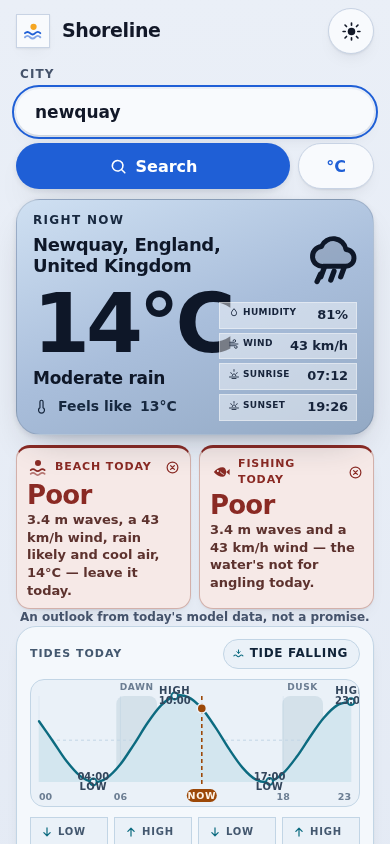
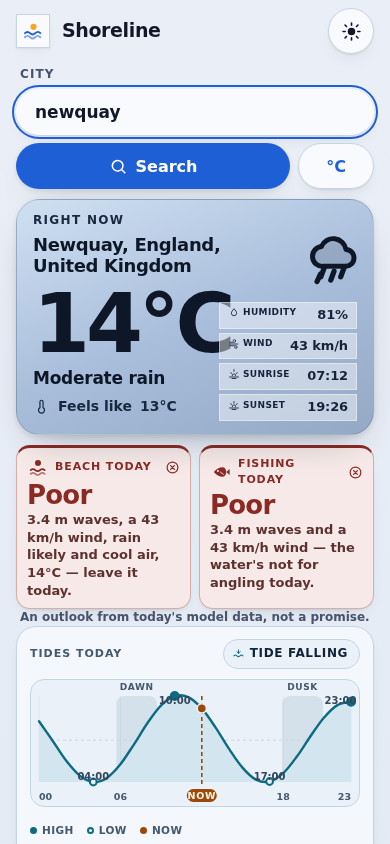
Tide chart: one word per turn, so "when" stays readable
Sydney's arrangement put "dusk" on top of a "High" and a "Low" on top of the
"now" pill - fifteen words in a 366x128 box, where the dawn/dusk band, the
hour ruler and the now pill already live. Live Sydney does this today, and any
place whose tide turns land near low light will.

The chart now prints the time only. A filled disc is a high, a hollow ring a
low, and their time sits on the outside of the curve; a small legend and the
tiles below both say high and low in words, so the shape is never the only cue.
Labels are placed against a map of the space already owned (plot band, ruler,
now pill, dawn/dusk strip) with a fallback to the other side of the curve, and
dropped only as a last resort.

audit/chart-collide.js sweeps the tide phase across the day - a fixed fixture
only sometimes produces the collision - and asserts no two words overlap, no
label leaves the box, and every turn keeps its time on the chart.

Along the way it exposed a latent contrast bug: --tide-kind is 3.96:1 on the
light water panel. It had gone unnoticed because it only ever painted SVG
shapes, which the checks do not sample; the new legend made it real text and
the coastal contrast check failed immediately. The legend, the dawn/dusk words
and the hour ruler now use --water-muted (6.85:1 light, 9.02:1 dark).

diff --git a/water.js b/water.js
@@ -356,6 +356,50 @@
      hour gridlines, mean sea level, and now. */
   const CHART_MIN_W = 260;
   const CHART_MIN_H = 124;
+  /* Font sizes as CSS paints them, so label boxes can be measured before the SVG is
+     built — the viewBox is 1:1 with the box, so these are px on screen too. */
+  const TIME_PX = 10;
+  const KIND_PX = 8.5;
+  const BAND_BASELINE = 10;
+
+  const boxOf = (text, cx, baseline, px) => {
+    const w = String(text).length * px * 0.62;
+    return { x1: cx - w / 2, x2: cx + w / 2, y1: baseline - px * 0.82, y2: baseline + px * 0.22 };
+  };
+  const hits = (b, boxes) => boxes.some((o) => b.x1 < o.x2 && o.x1 < b.x2 && b.y1 < o.y2 && o.y1 < b.y2);
+
+  /* One word per turn, not two. Four turns a day means four times, and adding
+     "High"/"Low" beside every one pushes fifteen words into a 366x128 box, where
+     they land on the dawn and dusk labels, on the "now" pill and on each other.
+     High and low are carried instead by a filled disc and a hollow ring, and by
+     which side of the curve their time sits on; the tiles under the chart spell
+     each turn out in full. A time is nudged to the other side of the curve, then
+     offset, and only dropped as a last resort — a missing label beats a pile. */
+  function labelTurns(m, x, y, cl, top, bottom, W, occupied) {
+    const placed = occupied.slice();
+    const out = [];
+    for (const t of m.turns) {
+      const mx = x(t.hour);
+      const my = y(t.heightM);
+      const high = t.kind === "High";
+      const w = String(t.time).length * TIME_PX * 0.66;
+      const cx = cl(mx, 2 + w / 2, W - 2 - w / 2);
+      const boxAt = (up, dy) => boxOf(t.time, cx, cl(my + (up ? -10 : 16) + dy, top + 8, bottom - 2), TIME_PX);
+      const tries = [boxAt(high, 0), boxAt(!high, 0), boxAt(high, -10), boxAt(!high, 10), boxAt(high, 10), boxAt(!high, -10)];
+      const chosen = tries.find((b) => !hits(b, placed));
+      if (chosen) placed.push(chosen);
+      const label = chosen
+        ? `<text x="${cx.toFixed(1)}" y="${(chosen.y2 - TIME_PX * 0.22).toFixed(1)}" text-anchor="middle">${t.time}</text>`
+        : "";
+      out.push(
+        `<g class="tc-turn tc-turn--${t.kind.toLowerCase()}">` +
+          `<circle cx="${mx.toFixed(1)}" cy="${my.toFixed(1)}" r="${high ? "4" : "3.4"}"/>` +
+          label +
+          `</g>`,
+      );
+    }
+    return out.join("");
+  }
 
   /* Catmull-Rom -> cubic bezier: hourly tide values are smooth, and a polyline reads
      as a zigzag at 24 points across 300px. */
@@ -434,26 +478,33 @@
       const to = x(cl((centreMin + LOW_LIGHT_MIN) / 60, 0, 23));
       return (
         `<rect class="tc-band" x="${from.toFixed(1)}" y="${top}" width="${(to - from).toFixed(1)}" height="${bottom - top}" rx="8"/>` +
-        `<text class="tc-bandlabel" x="${((from + to) / 2).toFixed(1)}" y="10" text-anchor="middle">${label}</text>`
+        `<text class="tc-bandlabel" x="${((from + to) / 2).toFixed(1)}" y="${BAND_BASELINE}" text-anchor="middle">${label}</text>`
       );
     };
+    /* The ruler along the bottom (hour ticks and the "now" pill) and the strip above
+       the plot (dawn and dusk) are already owned; a turn's labels must not walk into
+       either, so their boxes are registered here before labelling starts. */
+    const HOUR_PX = 9.5;
+    const pillW = 30;
+    const nowX = m.nowHour === null ? null : x(m.nowHour);
+    const nowY = m.nowHour === null || m.series[m.nowHour] === null ? null : y(m.series[m.nowHour]);
+    const nowPillX = nowX === null ? null : cl(nowX - pillW / 2, 2, W - pillW - 2);
+    const nowTextX = nowX === null ? null : cl(nowX, 2 + pillW / 2, W - pillW / 2 - 2);
 
-    const marks = m.turns
-      .map((t) => {
-        const mx = x(t.hour);
-        const my = y(t.heightM);
-        const high = t.kind === "High";
-        const ly = cl(high ? my - 9 : my + 15, top + 8, bottom - 2);
-        const ky = cl(high ? ly - 10 : ly + 10, 10, H - 4);
-        return (
-          `<g class="tc-turn tc-turn--${t.kind.toLowerCase()}">` +
-          `<circle cx="${mx.toFixed(1)}" cy="${my.toFixed(1)}" r="3.4"/>` +
-          `<text x="${mx.toFixed(1)}" y="${ly.toFixed(1)}" text-anchor="middle">${t.time}</text>` +
-          `<text class="tc-turnkind" x="${mx.toFixed(1)}" y="${ky.toFixed(1)}" text-anchor="middle">${t.kind}</text>` +
-          `</g>`
-        );
-      })
-      .join("");
+    const occupied = [
+      { x1: 0, x2: W, y1: 0, y2: top - 1 },
+      { x1: 0, x2: W, y1: bottom + 1, y2: H },
+      ...(nowX === null ? [] : [{ x1: nowPillX, x2: nowPillX + pillW, y1: H - 17, y2: H - 4 }]),
+      ...[0, 6, 12, 18, 23].map((h) => {
+        const anchor = h === 0 ? "start" : h === 23 ? "end" : "middle";
+        const cx = x(h);
+        const w = HOUR_PX * 0.66 * 2;
+        const left = anchor === "start" ? cx : anchor === "end" ? cx - w : cx - w / 2;
+        return { x1: left, x2: left + w, y1: H - 6 - HOUR_PX * 0.82, y2: H - 6 + HOUR_PX * 0.22 };
+      }),
+    ];
+
+    const marks = labelTurns(m, x, y, cl, top, bottom, W, occupied);
 
     const hours = [0, 6, 12, 18, 23]
       .map(
@@ -462,17 +513,14 @@
       )
       .join("");
 
-    const nowX = m.nowHour === null ? null : x(m.nowHour);
-    const nowY = m.nowHour === null || m.series[m.nowHour] === null ? null : y(m.series[m.nowHour]);
-    const pillW = 30;
     const now =
       nowX === null
         ? ""
         : `<g class="tc-now">` +
           `<line x1="${nowX.toFixed(1)}" y1="${top}" x2="${nowX.toFixed(1)}" y2="${bottom + 2}"/>` +
           (nowY === null ? "" : `<circle cx="${nowX.toFixed(1)}" cy="${nowY.toFixed(1)}" r="4.6"/>`) +
-          `<rect class="tc-nowpill" x="${cl(nowX - pillW / 2, 2, W - pillW - 2).toFixed(1)}" y="${H - 17}" width="${pillW}" height="13" rx="6.5"/>` +
-          `<text x="${cl(nowX, 2 + pillW / 2, W - pillW / 2 - 2).toFixed(1)}" y="${H - 7}" text-anchor="middle">now</text>` +
+          `<rect class="tc-nowpill" x="${nowPillX.toFixed(1)}" y="${H - 17}" width="${pillW}" height="13" rx="6.5"/>` +
+          `<text x="${nowTextX.toFixed(1)}" y="${H - 7}" text-anchor="middle">now</text>` +
           `</g>`;
 
     /* A hour tick that sits under the "now" pill would fight it, so drop that tick. */
@@ -569,6 +617,15 @@
           ${trendChip}
         </p>
         <div class="tide-chart" data-testid="tide-chart"></div>
+        ${
+          m.turns.length
+            ? `<p class="tide-legend" aria-hidden="true">
+              <span class="tide-legend__mark tide-legend__mark--high"></span> high
+              <span class="tide-legend__mark tide-legend__mark--low"></span> low
+              <span class="tide-legend__now"></span> now
+            </p>`
+            : ""
+        }
         <ul class="tide-events">${events}</ul>
         <p class="best-times">${esc(bestTimes(m))}</p>
         <p class="tide-note" data-testid="tide-note">Tide times are approximate — hourly model values, not a harbour table.</p>

diff --git a/audit/chart-collide.js b/audit/chart-collide.js
@@ -1,0 +1,123 @@
+/* The tide chart is the answer to "when", and the operator asked for it to be good
+   enough to plan by. A label that lands on another label destroys exactly that, and
+   it depends on where the turns fall relative to dawn, dusk and now — a
+   configuration a fixed fixture only sometimes produces (Sydney, a live place the
+   operator named, does: "dusk" on top of a "High", and a "Low" on top of "now").
+   This sweeps the tide phase across the day for several places, in both themes, and
+   asserts no two words inside the chart overlap, that every label stays inside the
+   chart box, and that the curve still spans its width.
+   Run: node audit/chart-collide.js */
+const { chromium } = require('@playwright/test');
+const { installStub, setTheme, searchMapFor, MATCHES, fullLabel, MARINE } = require('./stub.js');
+
+const BASE = process.env.APP_URL || 'http://localhost:3000';
+const PLACES = (process.env.CHART_PLACES || 'cascais,sydney,newquay,pointArena').split(',');
+const PHASES = (process.env.CHART_PHASES || '0,4,8,12,16,20').split(',').map(Number);
+const THEMES = ['light', 'dark'];
+
+const MEASURE = `(() => {
+  const host = document.querySelector('[data-testid="tide-chart"]');
+  const svg = host && host.querySelector('svg');
+  if (!svg) return null;
+  const hb = host.getBoundingClientRect();
+  const texts = [...svg.querySelectorAll('text')].map((t) => {
+    const b = t.getBoundingClientRect();
+    return {
+      s: t.textContent.trim(),
+      cls: (t.getAttribute('class') || '').split(' ')[0],
+      x: b.x, y: b.y, w: b.width, h: b.height,
+      right: b.x + b.width, bottom: b.y + b.height,
+    };
+  });
+  const overlaps = [];
+  for (let i = 0; i < texts.length; i++) {
+    for (let j = i + 1; j < texts.length; j++) {
+      const a = texts[i], b = texts[j];
+      const ox = Math.min(a.right, b.right) - Math.max(a.x, b.x);
+      const oy = Math.min(a.bottom, b.bottom) - Math.max(a.y, b.y);
+      if (ox > 0.75 && oy > 0.75) {
+        overlaps.push(a.s + '[' + (a.cls || 'time') + '] x ' + a.x.toFixed(0) + '-' + a.right.toFixed(0) +
+          ' vs ' + b.s + '[' + (b.cls || 'time') + '] x ' + b.x.toFixed(0) + '-' + b.right.toFixed(0) +
+          ' overlap ' + ox.toFixed(1) + 'x' + oy.toFixed(1));
+      }
+    }
+  }
+  const spill = texts.filter((t) => t.x < hb.x - 1 || t.right > hb.right + 1 || t.y < hb.y - 1 || t.bottom > hb.bottom + 1)
+    .map((t) => t.s + ' outside the chart box');
+  /* every turn the app reports must be readable on the chart, not just dotted */
+  const turnDots = [...svg.querySelectorAll('g.tc-turn')];
+  const turnTimes = turnDots.map((g) => (g.querySelector('text') || {}).textContent || '');
+  const tileTimes = [...document.querySelectorAll('[data-testid="tide-time"]')].map((n) => n.textContent.trim());
+  const line = svg.querySelector('path.tc-line');
+  const lb = line ? line.getBoundingClientRect() : null;
+  return {
+    words: texts.length,
+    overlaps,
+    spill,
+    missing: tileTimes.filter((t) => !turnTimes.includes(t)),
+    turns: turnDots.length,
+    curveW: lb ? Math.round(lb.width) : 0,
+    hostW: Math.round(hb.width),
+  };
+})()`;
+
+(async () => {
+  const problems = [];
+  const lines = [];
+  const browser = await chromium.launch();
+  const saved = new Map();
+  for (const p of PLACES) if (MARINE[p] && MARINE[p].tide) saved.set(p, MARINE[p].tide.highAt);
+
+  for (const place of PLACES) {
+    if (!MATCHES[place]) {
+      problems.push(`unknown fixture place "${place}"`);
+      continue;
+    }
+    for (const phase of PHASES) {
+      if (MARINE[place] && MARINE[place].tide) MARINE[place].tide.highAt = phase + 0.3;
+      for (const theme of THEMES) {
+        const page = await browser.newPage({ viewport: { width: 390, height: 844 } });
+        await installStub(page, { search: searchMapFor([place]) });
+        await page.goto(BASE, { waitUntil: 'domcontentloaded' });
+        await setTheme(page, theme);
+        await page.getByLabel('City', { exact: true }).fill(fullLabel(place));
+        await page.keyboard.press('Enter');
+        const shown = await page
+          .waitForSelector('[data-testid="water"]:not([hidden])', { timeout: 5000 })
+          .then(() => true)
+          .catch(() => false);
+        if (!shown) {
+          problems.push(`${place} phase ${phase} ${theme}: the water section never appeared`);
+          await page.close();
+          continue;
+        }
+        await page.waitForTimeout(150);
+        const r = await page.evaluate(MEASURE);
+        if (!r) {
+          problems.push(`${place} phase ${phase} ${theme}: no tide chart painted`);
+          await page.close();
+          continue;
+        }
+        r.overlaps.forEach((o) => problems.push(`${place} phase ${phase} ${theme}: ${o}`));
+        r.spill.forEach((s) => problems.push(`${place} phase ${phase} ${theme}: ${s}`));
+        r.missing.forEach((t) => problems.push(`${place} phase ${phase} ${theme}: turn ${t} has no time on the chart`));
+        if (r.words < 3) problems.push(`${place} phase ${phase} ${theme}: only ${r.words} words in the chart`);
+        lines.push(
+          `${place}/${String(phase).padStart(2, '0')}h ${theme}: ${r.words} words, ${r.overlaps.length} overlap(s), curve ${r.curveW}/${r.hostW}px`,
+        );
+        await page.close();
+      }
+    }
+  }
+  for (const [p, v] of saved) if (MARINE[p] && MARINE[p].tide) MARINE[p].tide.highAt = v;
+
+  await browser.close();
+  for (const l of lines) console.log('  ' + l);
+  console.log('');
+  if (problems.length) {
+    problems.forEach((p) => console.log('FAIL ' + p));
+    console.log(`CHART LABELS: ${problems.length} problem(s)`);
+    process.exit(1);
+  }
+  console.log('CHART LABELS CLEAN');
+})();

diff --git a/styles.css b/styles.css
@@ -1917,7 +1917,7 @@ html[data-theme="dark"] .empty-state {
 }
 
 .tc-bandlabel {
-  fill: var(--tide-kind);
+  fill: var(--water-muted);
   font-size: 9px;
   font-weight: 800;
   letter-spacing: 0.07em;
@@ -1948,6 +1948,14 @@ html[data-theme="dark"] .empty-state {
   stroke-width: 2;
 }
 
+.tc-turn--high circle {
+  /* filled disc for a high, hollow ring for a low: the chart carries four turns and
+     only the time beside each, so the shape says which is which. The tiles under the
+     chart and the legend spell it out in words — the shape is never the only cue. */
+  fill: var(--tide-line);
+  stroke: var(--tide-line);
+}
+
 .tc-turn text {
   fill: var(--tide-label);
   font-size: 10px;
@@ -1955,16 +1963,44 @@ html[data-theme="dark"] .empty-state {
   font-variant-numeric: tabular-nums;
 }
 
-.tc-turnkind {
-  fill: var(--tide-kind);
-  font-size: 8.5px;
-  font-weight: 800;
-  letter-spacing: 0.07em;
+.tide-legend {
+  display: flex;
+  align-items: center;
+  gap: 5px;
+  margin: 6px 0 0;
+  color: var(--water-muted);
+  font-size: 10.5px;
+  font-weight: 700;
+  letter-spacing: 0.04em;
   text-transform: uppercase;
 }
 
+.tide-legend__mark {
+  width: 7px;
+  height: 7px;
+  margin-left: 8px;
+  border: 2px solid var(--tide-line);
+  border-radius: 50%;
+}
+
+.tide-legend__mark:first-child {
+  margin-left: 0;
+}
+
+.tide-legend__mark--high {
+  background: var(--tide-line);
+}
+
+.tide-legend__now {
+  width: 7px;
+  height: 7px;
+  margin-left: 8px;
+  border-radius: 50%;
+  background: var(--tide-now);
+}
+
 .tc-hour {
-  fill: var(--tide-kind);
+  fill: var(--water-muted);
   font-size: 9.5px;
   font-weight: 700;
   font-variant-numeric: tabular-nums;
